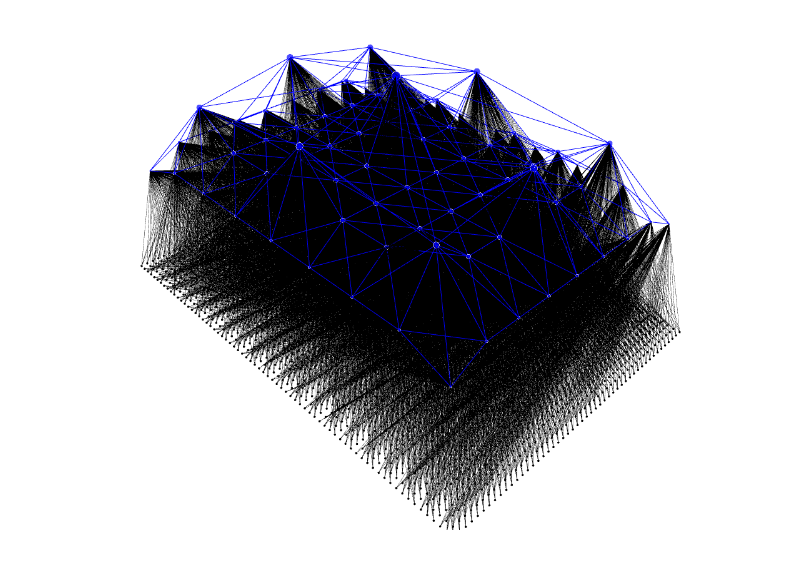
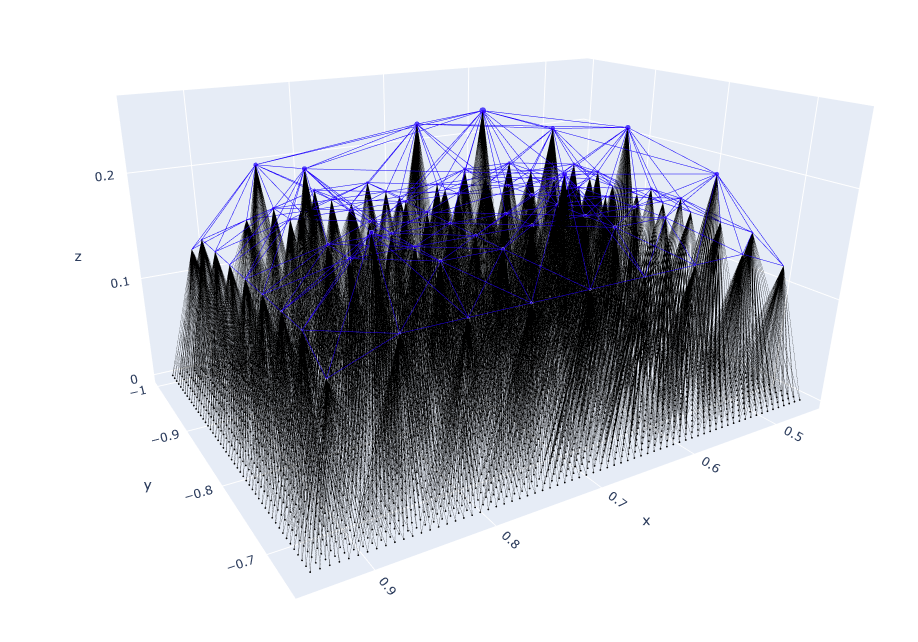
v0.1.5 commit lighning

diff --git a/neural_lam/weather_dataset.py b/neural_lam/weather_dataset.py
@@ -351,28 +351,12 @@ class WeatherDataset(torch.utils.data.Dataset):
         da_target_times : xr.DataArray
             The dataarray for the target times.
         """
-        # handling ensemble data
-        if self.datastore.is_ensemble:
-            # for the now the strategy is to only include the first ensemble
-            # member
-            # XXX: this could be changed to include all ensemble members by
-            # splitting `idx` into two parts, one for the analysis time and one
-            # for the ensemble member and then increasing self.__len__ to
-            # include all ensemble members
-            warnings.warn(
-                "only use of ensemble member 0 (the first member) is "
-                "implemented for ensemble data"
-            )
-            i_ensemble = 0
-            da_state = self.da_state.isel(ensemble_member=i_ensemble)
-        else:
-            da_state = self.da_state
+
+        device = torch.device("cuda" if torch.cuda.is_available() else "cpu")
+        
+        da_state = self.da_state
 
         if self.da_forcing is not None:
-            if "ensemble_member" in self.da_forcing.dims:
-                raise NotImplementedError(
-                    "Ensemble member not yet supported for forcing data"
-                )
             da_forcing = self.da_forcing
         else:
             da_forcing = None
@@ -387,59 +371,55 @@ class WeatherDataset(torch.utils.data.Dataset):
                 da_forcing=da_forcing, idx=idx, n_steps=self.ar_steps
             )
 
-        # MOST TIME CONSUMING BELOW
-        da_state.load()
-        if da_forcing is not None:
-            da_forcing_windowed.load()
-
-        da_init_states = da_state.isel(time=slice(0, 2))
+        # Convert to NumPy before moving to GPU
         da_target_states = da_state.isel(time=slice(2, None))
         da_target_times = da_target_states.time
+        da_state_np = da_state.values
+        da_forcing_np = da_forcing_windowed.values if da_forcing is not None else None
 
+        # Move data to GPU
+        da_state_tensor = torch.tensor(da_state_np, dtype=torch.float32, device=device)
+        da_forcing_tensor = torch.tensor(da_forcing_np, dtype=torch.float32, device=device) if da_forcing_np is not None else None
+
+        # Slice states
+        da_init_states = da_state_tensor[:2]  # First two time steps
+        da_target_states = da_state_tensor[2:]  # Remaining time steps
+
+        # Convert target times to tensor on GPU
+        
+        target_times = torch.tensor(
+            da_target_times.astype("datetime64[ns]").astype("int64").values,
+            dtype=torch.int64, device=device
+        )
+
+        # Standardization directly on GPU
         if self.standardize:
-            da_init_states = (
-                da_init_states - self.da_state_mean
-            ) / self.da_state_std
-            da_target_states = (
-                da_target_states - self.da_state_mean
-            ) / self.da_state_std
+            da_state_mean_tensor = torch.tensor(self.da_state_mean.values, dtype=torch.float32, device=device)
+            da_state_std_tensor = torch.tensor(self.da_state_std.values, dtype=torch.float32, device=device)
 
-            if da_forcing is not None:
-                # XXX: Here we implicitly assume that the last dimension of the
-                # forcing data is the forcing feature dimension. To standardize
-                # on `.device` we need a different implementation. (e.g. a
-                # tensor with repeated means and stds for each "windowed" time.)
-                da_forcing_windowed = (
-                    da_forcing_windowed - self.da_forcing_mean
-                ) / self.da_forcing_std
 
-        #MOST TIME CONSUMING ABOVE
-        if da_forcing is not None:
-            # stack the `forcing_feature` and `window_sample` dimensions into a
-            # single `forcing_feature` dimension
-            da_forcing_windowed = da_forcing_windowed.stack(
-                forcing_feature_windowed=("forcing_feature", "window")
-            )
+            da_init_states = (da_init_states - da_state_mean_tensor) / da_state_std_tensor
+            
+            da_target_states = (da_target_states - da_state_mean_tensor) / da_state_std_tensor
+
+            if da_forcing_tensor is not None:
+                da_forcing_mean_tensor = torch.tensor(self.da_forcing_mean.values, dtype=torch.float32, device=device)
+                da_forcing_std_tensor = torch.tensor(self.da_forcing_std.values, dtype=torch.float32, device=device)
+                da_forcing_tensor = (
+                    da_forcing_tensor - da_forcing_mean_tensor) / da_forcing_std_tensor
+
+        # Reshape forcing if available
+        if da_forcing_tensor is not None:
+            da_forcing_tensor = da_forcing_tensor.view(self.ar_steps, da_forcing_tensor.shape[-2], -1)
         else:
-            # create an empty forcing tensor with the right shape
-            da_forcing_windowed = xr.DataArray(
-                data=np.empty(
-                    (self.ar_steps, da_state.grid_index.size, 0),
-                ),
-                dims=("time", "grid_index", "forcing_feature"),
-                coords={
-                    "time": da_target_times,
-                    "grid_index": da_state.grid_index,
-                    "forcing_feature": [],
-                },
-            )
+            da_forcing_tensor = torch.empty((self.ar_steps, da_state_tensor.shape[1], 0), device=device)
 
         return (
             da_init_states,
             da_target_states,
-            da_forcing_windowed,
-            da_target_times,
-        )
+            da_forcing_tensor, 
+            target_times,
+        ) 
 
     def __getitem__(self, idx):
         """
@@ -472,29 +452,10 @@ class WeatherDataset(torch.utils.data.Dataset):
             da_init_states,
             da_target_states,
             da_forcing_windowed,
-            da_target_times,
+            target_times,
         ) = self._build_item_dataarrays(idx=idx)
 
-        tensor_dtype = torch.float32
-
-        init_states = torch.tensor(da_init_states.values, dtype=tensor_dtype)
-        target_states = torch.tensor(
-            da_target_states.values, dtype=tensor_dtype
-        )
-
-        target_times = torch.tensor(
-            da_target_times.astype("datetime64[ns]").astype("int64").values,
-            dtype=torch.int64,
-        )
-
-        forcing = torch.tensor(da_forcing_windowed.values, dtype=tensor_dtype)
-
-        # init_states: (2, N_grid, d_features)
-        # target_states: (ar_steps, N_grid, d_features)
-        # forcing: (ar_steps, N_grid, d_windowed_forcing)
-        # target_times: (ar_steps,)
-
-        return init_states, target_states, forcing, target_times
+        return da_init_states, da_target_states, da_forcing_windowed, target_times
 
     def __iter__(self):
         """

diff --git a/neural_lam/plot_graph.py b/neural_lam/plot_graph.py
@@ -50,6 +50,7 @@ def main():
     xy = datastore.get_xy("state", stacked=True)  # (N_grid, 2)
     pos_max = np.max(np.abs(xy))
     grid_pos = xy / pos_max  # Divide by maximum coordinate
+    grid_pos = grid_pos[np.lexsort((grid_pos[:, 0], grid_pos[:, 1]))]
 
     # Load graph data
     graph_dir_path = os.path.join(datastore.root_path, "graph", args.graph)

diff --git a/neural_lam/validate_model.py b/neural_lam/validate_model.py
@@ -140,7 +140,7 @@ def main(input_args=None, total = 10):
     return output
 
 if __name__ == "__main__":
-    total = 15
+    total = 10
     output = main(total = total)
 
     output.to_netcdf(f'output_{total}x7x49x69.nc')

diff --git a/CHANGELOG.md b/CHANGELOG.md
@@ -40,8 +40,13 @@ and this project adheres to [Semantic Versioning](https://semver.org/spec/v2.0.0
 ## [v0.1.4](https://github.com/Divanvdb/dk-neural-lam)
 
 - Found that the **standardization** happening within the `_build_item_dataarrays()` function constrains the **CPU**
-- Move the **standardization** to **GPU** before computing
+
 - `.yaml` setting files also updated to only include `wind_speed850.0hPa` at this stage, but might revert
 - Brought back the `boundary_points = 5` to see what this would affect
 - Added a `plot_data.ipynb` notebook that visualizes the output from `validate_model.py`
+
+## [v0.1.5](https://github.com/Divanvdb/dk-neural-lam)
+
+- Fixed the transposed grid problem in `plot_graph.py`
+- Moved the **standardization** to **GPU** before computing in the `_build_item_dataarrays()` of `weather_dataset.py`
 

diff --git a/README.md b/README.md
@@ -19,7 +19,7 @@ Find the original NeuralLAM repo at [NeuralLAM](https://github.com/mllam/neural-
 ## With the goal to compare the SA-GNN model with current Global AIWP models and ground truth datasets
 
 ![alt text](images/metric_graphs.png)
-![alt text](image.png)
+
 ## And the first outputs of the model
 
 ![alt text](images/output_1.png)
